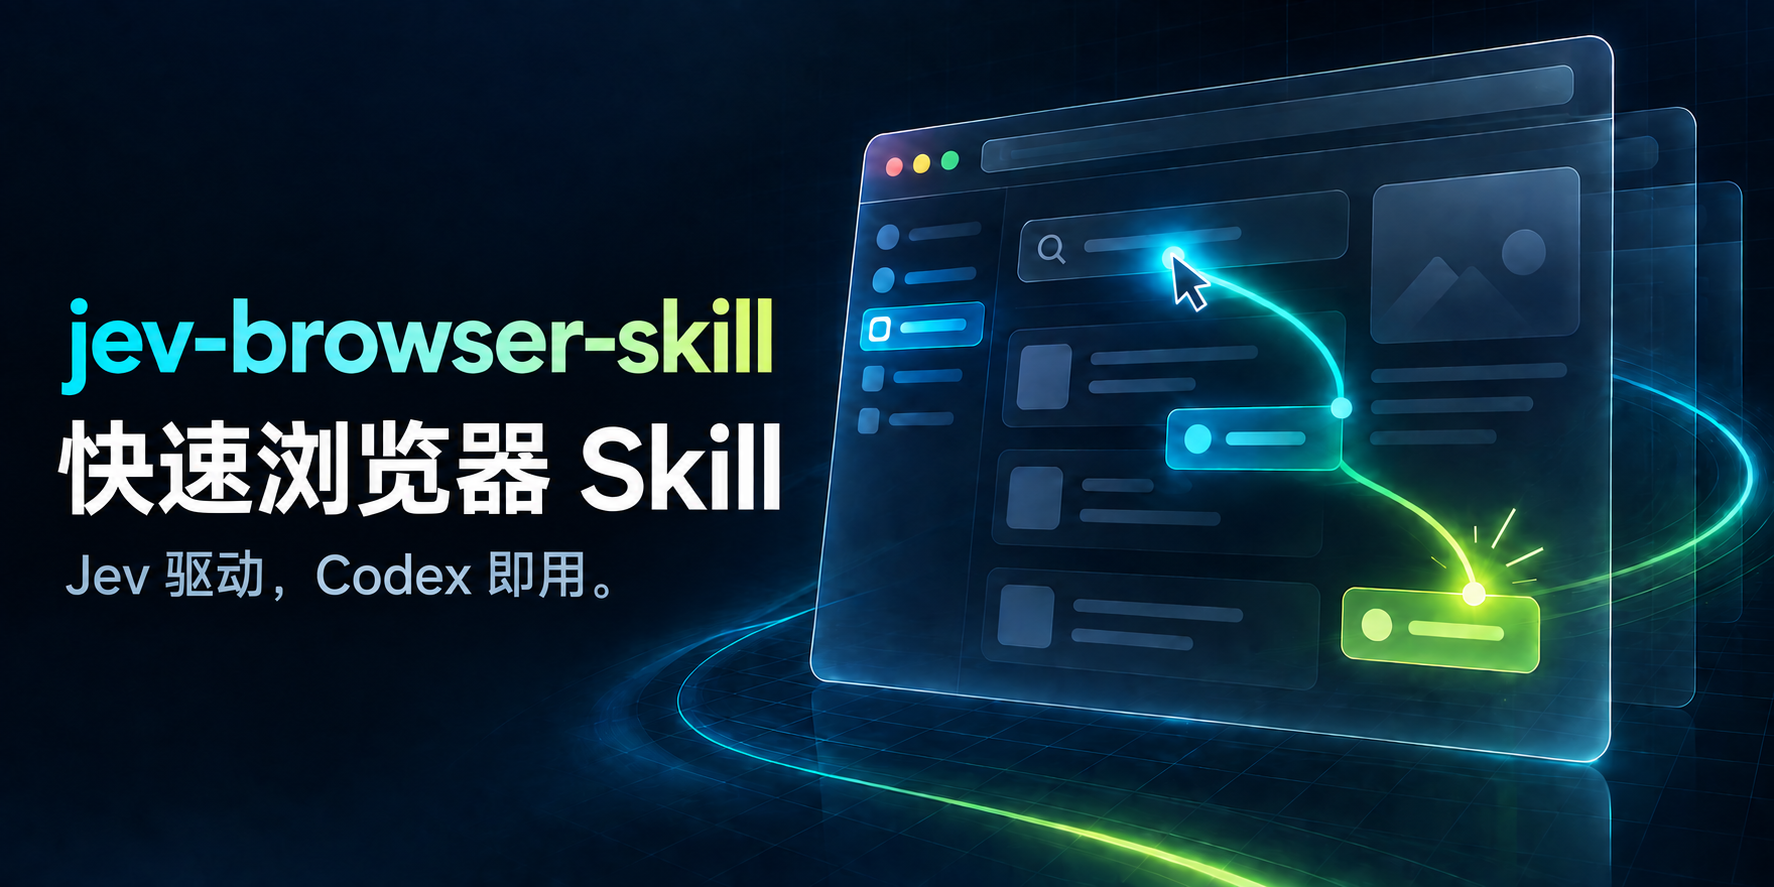
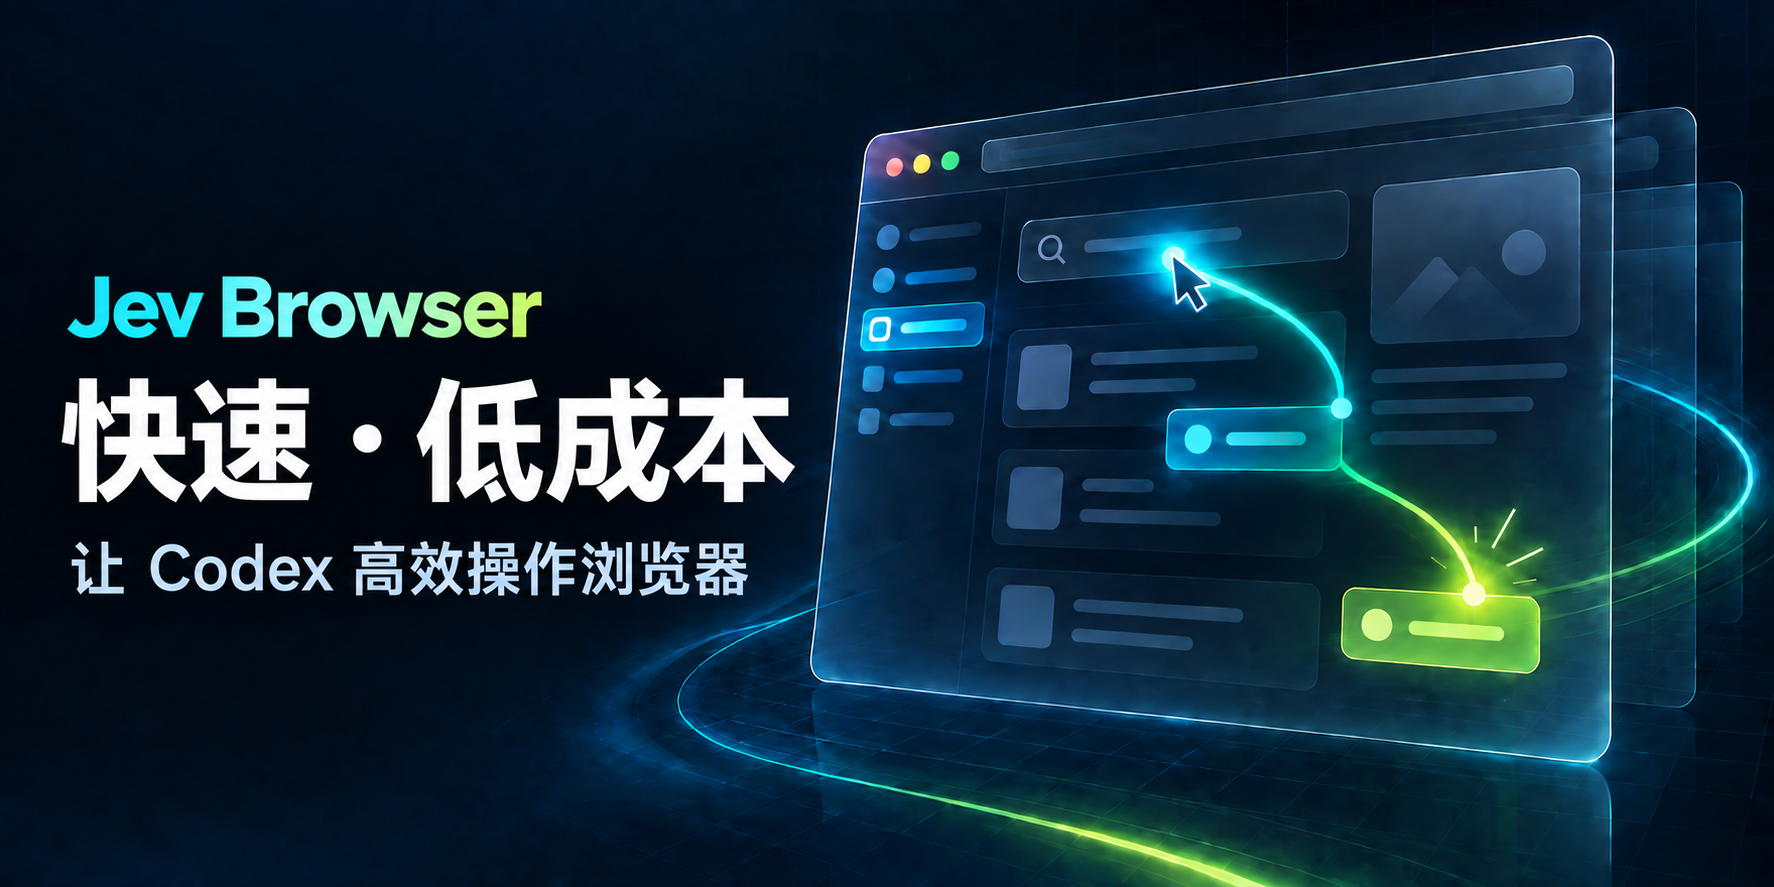
Refresh cover and compare Jev API rates with Codex model options

diff --git a/README.md b/README.md
@@ -1,6 +1,6 @@
 <div align="center">
 
-![Jev Browser Skill](docs/assets/hero.png)
+![Jev Browser：快速、低成本，让 Codex 高效操作浏览器](docs/assets/hero.png)
 
 # ⚡ Jev Browser Skill
 
@@ -20,16 +20,22 @@
 
 ## 低延迟、低成本，让网页操作快起来
 
-**少等每一步决策，少花每一次调用。** Codex 理解目标、准备任务，Jev 以低延迟完成动作选择，连续推进网页操作，减少主模型逐步介入带来的等待与开销。
+Codex 直接操作浏览器时，由所选主模型逐步决策；接入 Jev 后，Codex 负责理解目标、准备任务，把连续点击与选择交给 Jev。
 
-| ⚡ 低延迟 | 💰 低输入价格 | 🎁 输出免费 |
-| :---: | :---: | :---: |
-| **70–500 ms** | **$0.042 / 百万 token** | **$0** |
-| 官方报告的模型请求延迟 | Jev 输入 token 单价 | Jev 输出 token 费用 |
+**⚡ Jev 官方报告的模型请求延迟为 70–500 ms。** 本项目把动作和目标放在一次请求中选择，并让 Jev 连续执行，减少每一步的模型等待与交接。
 
-按每次请求计费 **1 万输入 token** 估算，**100 次 Jev 决策约 $0.042**。
+### 与 Codex 可选模型的 API 单价对比
 
-<sub>数据来源：[TypeSafe 官方](https://typesafe.ai/blog/introducing-system-one-models-and-jev)，核对于 2026-09-22。上述为模型延迟和 Jev API 费用；完整任务还包括网页加载、重试及 Codex 自身的耗时与费用。</sub>
+| 决策模型 | 输入 / 百万 token | 输出 / 百万 token | 输入单价相对 Jev |
+| --- | ---: | ---: | ---: |
+| **Jev** | **$0.042** | **免费** | **1×** |
+| [GPT-5.6 Terra](https://developers.openai.com/api/docs/models/gpt-5.6-terra) | $2.00 | $12.00 | 47.6× |
+| [GPT-5.6 Sol](https://developers.openai.com/api/docs/models/gpt-5.6-sol) | $4.00 | $20.00 | 95.2× |
+| [GPT-6 Astra](https://developers.openai.com/api/docs/models/gpt-6-astra) | $10.00 | $50.00 | 238.1× |
+
+同样计费 **10 万输入 token**，Jev 为 **$0.0042**；上表三款模型分别为 **$0.20 / $0.40 / $1.00**，另计输出费用。高频网页决策交给 Jev，Codex 保留对任务的理解与结果回复。
+
+<sub>核对于 2026-09-22；Jev 数据来自 [TypeSafe 官方](https://typesafe.ai/blog/introducing-system-one-models-and-jev)，OpenAI 价格见表中模型链接。比较采用标准、未缓存、短上下文 API 单价，不代表 Codex 订阅扣费或完整任务的成本倍数。模型 token 用量可能不同，任务总开销还包括 Codex、网页加载与重试；本项目尚未发布与 Codex 直接操作浏览器的同任务耗时对照。</sub>
 
 ## 为什么快又省
 
